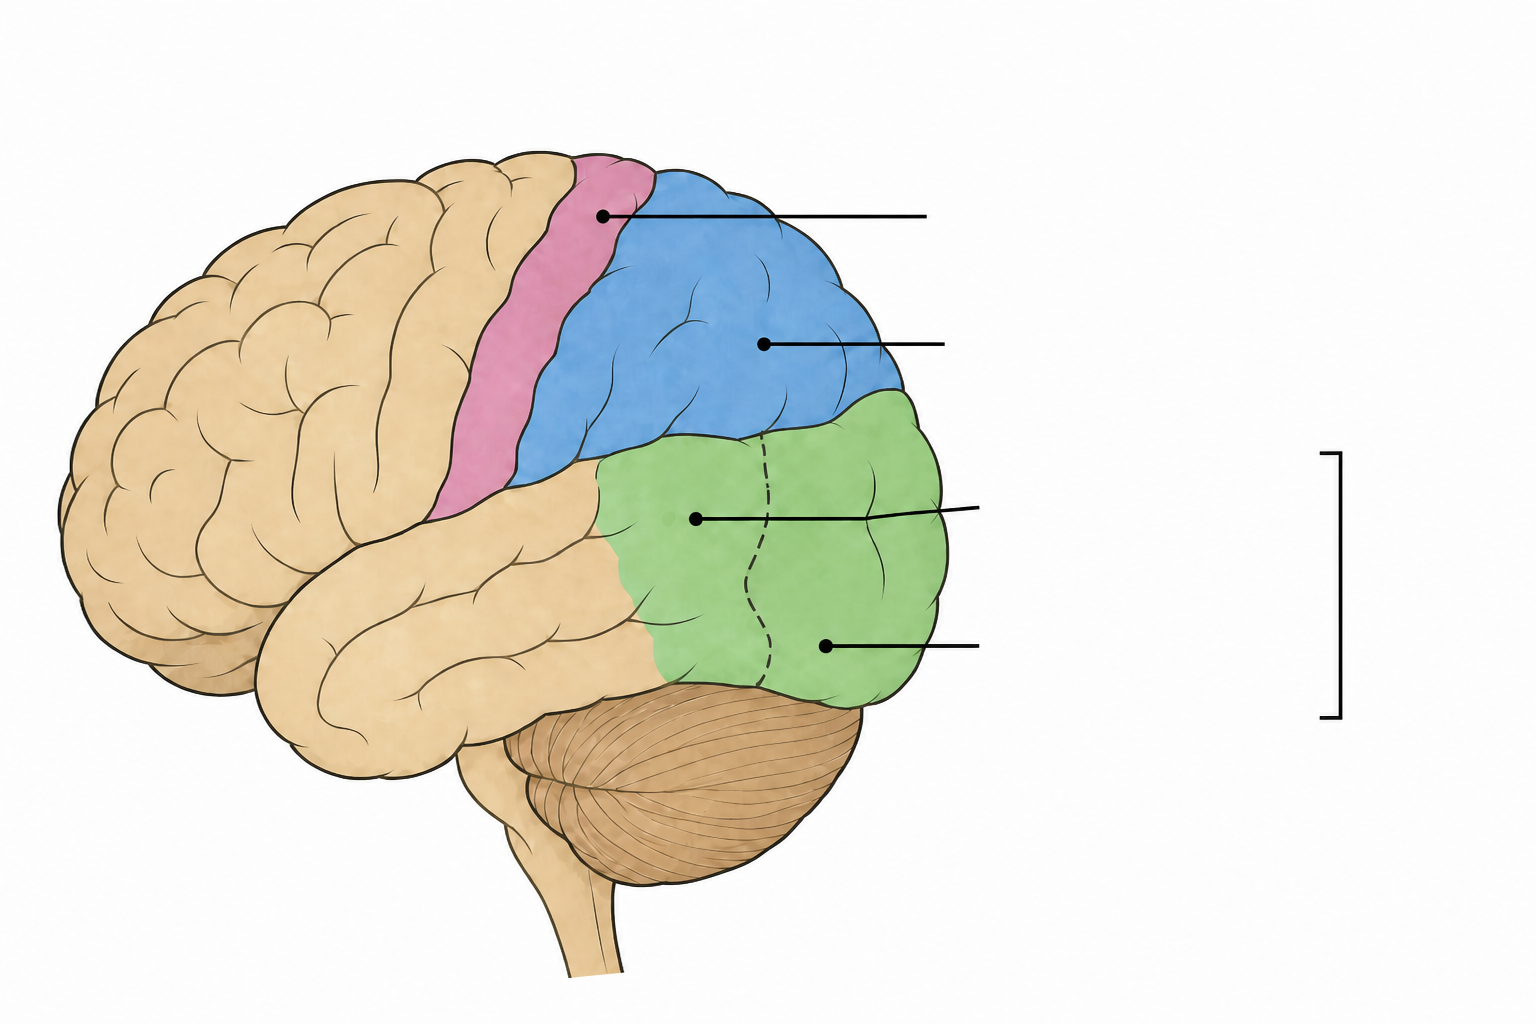
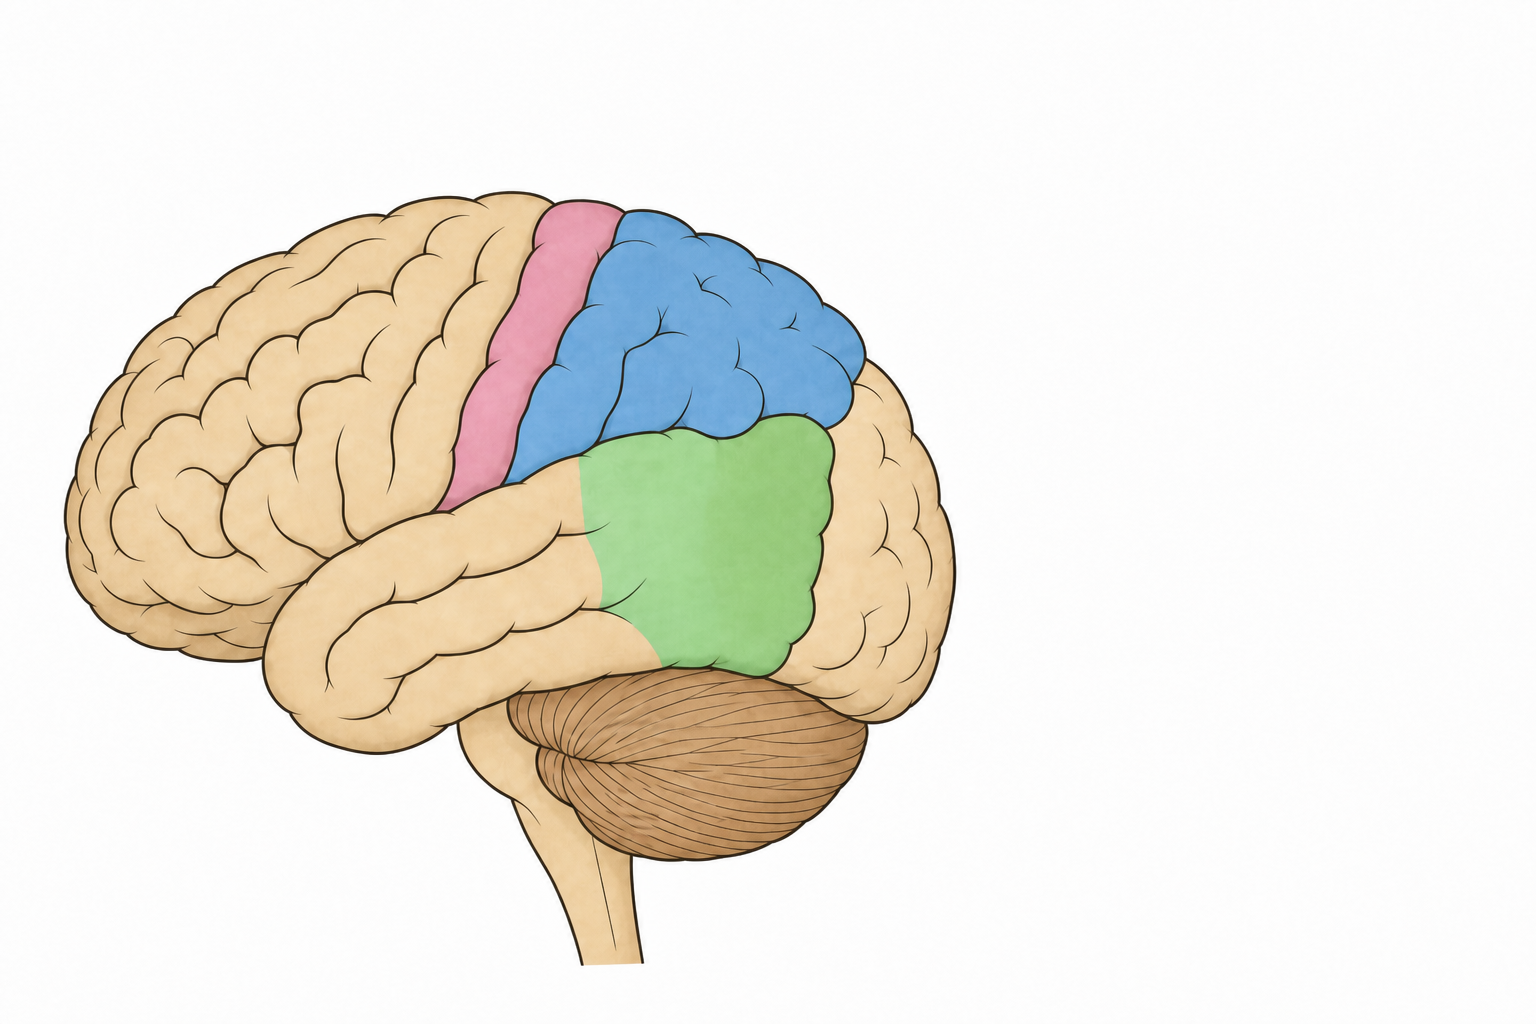
fix ch02 parietal regions: keep supra-marginal/angulaire in parietal, not occipital

diff --git a/data/flash/ch02.js b/data/flash/ch02.js
@@ -98,7 +98,7 @@
     { id: "FC-ANAT-02-S17", chapter: "02", priority: "P1", kind: "schema", front: "Schéma — Face médiale", back: "Face médiale", frontImg: "matiere/anatomie/img/ch02/blank/22_face_mediale.png?v=fc2j", backImg: "matiere/anatomie/img/ch02/22_face_mediale.png?v=fc2j" },
     { id: "FC-ANAT-02-S18", chapter: "02", priority: "P1", kind: "schema", front: "Schéma — Face inférieure", back: "Face inférieure", frontImg: "matiere/anatomie/img/ch02/blank/23_face_inferieure.png?v=fc2i", backImg: "matiere/anatomie/img/ch02/23_face_inferieure.png?v=fc2i" },
     { id: "FC-ANAT-02-S19", chapter: "02", priority: "P1", kind: "schema", front: "Schéma — Gyrus frontaux", back: "Gyrus frontaux", frontImg: "matiere/anatomie/img/ch02/blank/26_frontal_gyrus.png", backImg: "matiere/anatomie/img/ch02/26_frontal_gyrus.png" },
-    { id: "FC-ANAT-02-S20", chapter: "02", priority: "P1", kind: "schema", front: "Schéma — Régions pariétales", back: "Régions pariétales", frontImg: "matiere/anatomie/img/ch02/blank/28_parietal_regions.png?v=fc2e", backImg: "matiere/anatomie/img/ch02/28_parietal_regions.png?v=fc2e" },
+    { id: "FC-ANAT-02-S20", chapter: "02", priority: "P1", kind: "schema", front: "Schéma — Régions pariétales", back: "Régions pariétales", frontImg: "matiere/anatomie/img/ch02/blank/28_parietal_regions.png?v=fc2l", backImg: "matiere/anatomie/img/ch02/28_parietal_regions.png?v=fc2l" },
     { id: "FC-ANAT-02-S21", chapter: "02", priority: "P1", kind: "schema", front: "Schéma — Heschl et Wernicke", back: "Heschl et Wernicke", frontImg: "matiere/anatomie/img/ch02/blank/30_heschl_wernicke.png?v=fc2", backImg: "matiere/anatomie/img/ch02/30_heschl_wernicke.png?v=fc2" },
     { id: "FC-ANAT-02-S22", chapter: "02", priority: "P1", kind: "schema", front: "Schéma — Lobe occipital", back: "Lobe occipital", frontImg: "matiere/anatomie/img/ch02/blank/31_occipital.png?v=fc2g", backImg: "matiere/anatomie/img/ch02/31_occipital.png?v=fc2g" },
     { id: "FC-ANAT-02-S23", chapter: "02", priority: "P1", kind: "schema", front: "Schéma — Système limbique", back: "Système limbique", frontImg: "matiere/anatomie/img/ch02/blank/32_limbique.png", backImg: "matiere/anatomie/img/ch02/32_limbique.png" },

diff --git a/matiere/anatomie/ch02.html b/matiere/anatomie/ch02.html
@@ -421,7 +421,7 @@
       </div>
 
       <figure class="schema">
-        <img src="./img/ch02/28_parietal_regions.png?v=fc2e" alt="Régions pariétales" />
+        <img src="./img/ch02/28_parietal_regions.png?v=fc2l" alt="Régions pariétales" />
       </figure>
       <div class="label-quiz" data-labels='[["supra marginal","supra-marginal"],["angulaire"],["sillon post-central","post-central","post central"],["sillon intra-parietal","intra-parietal","intra parietal"],["pre-cuneus","precuneus","pre cuneus"],["gyrus cingulaire anterieur","cingulaire anterieur"],["gyrus cingulaire posterieur","cingulaire posterieur"]]'>
         <div class="course-cloze">
